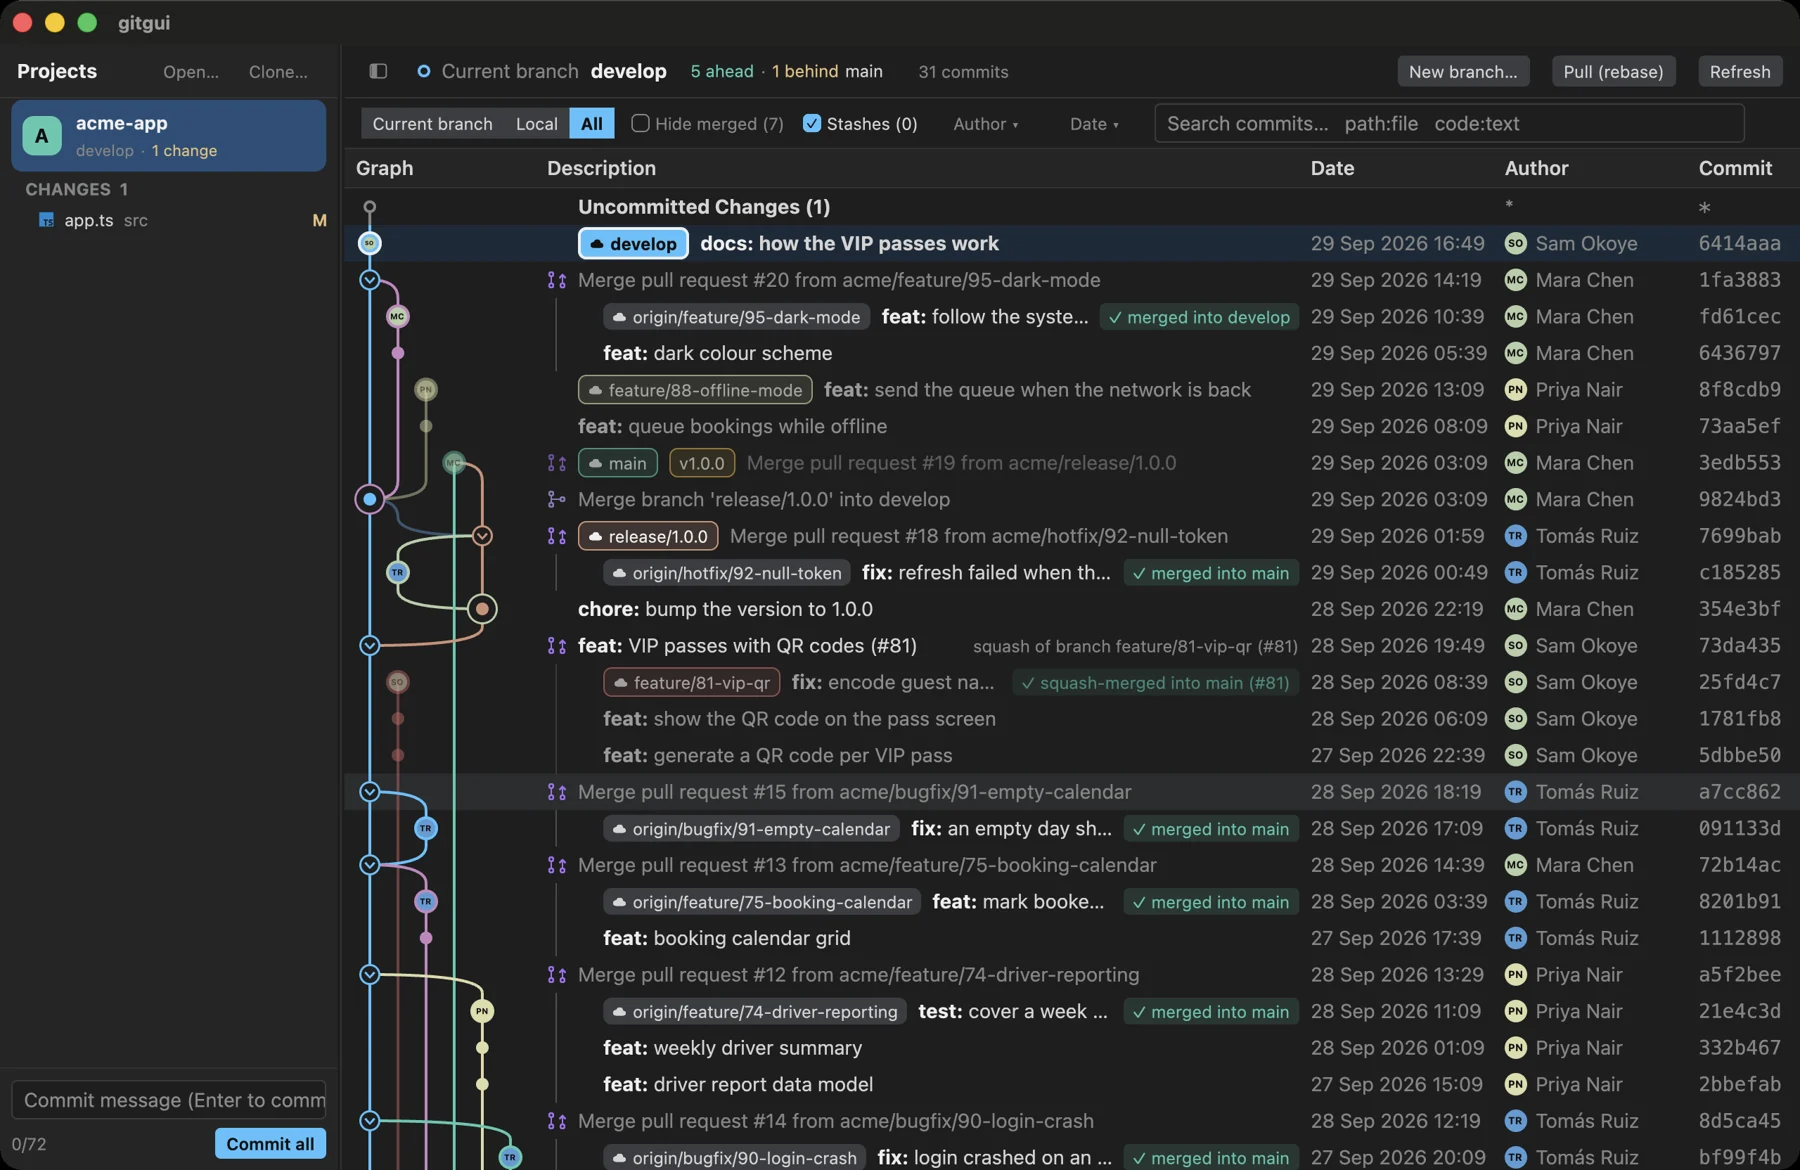
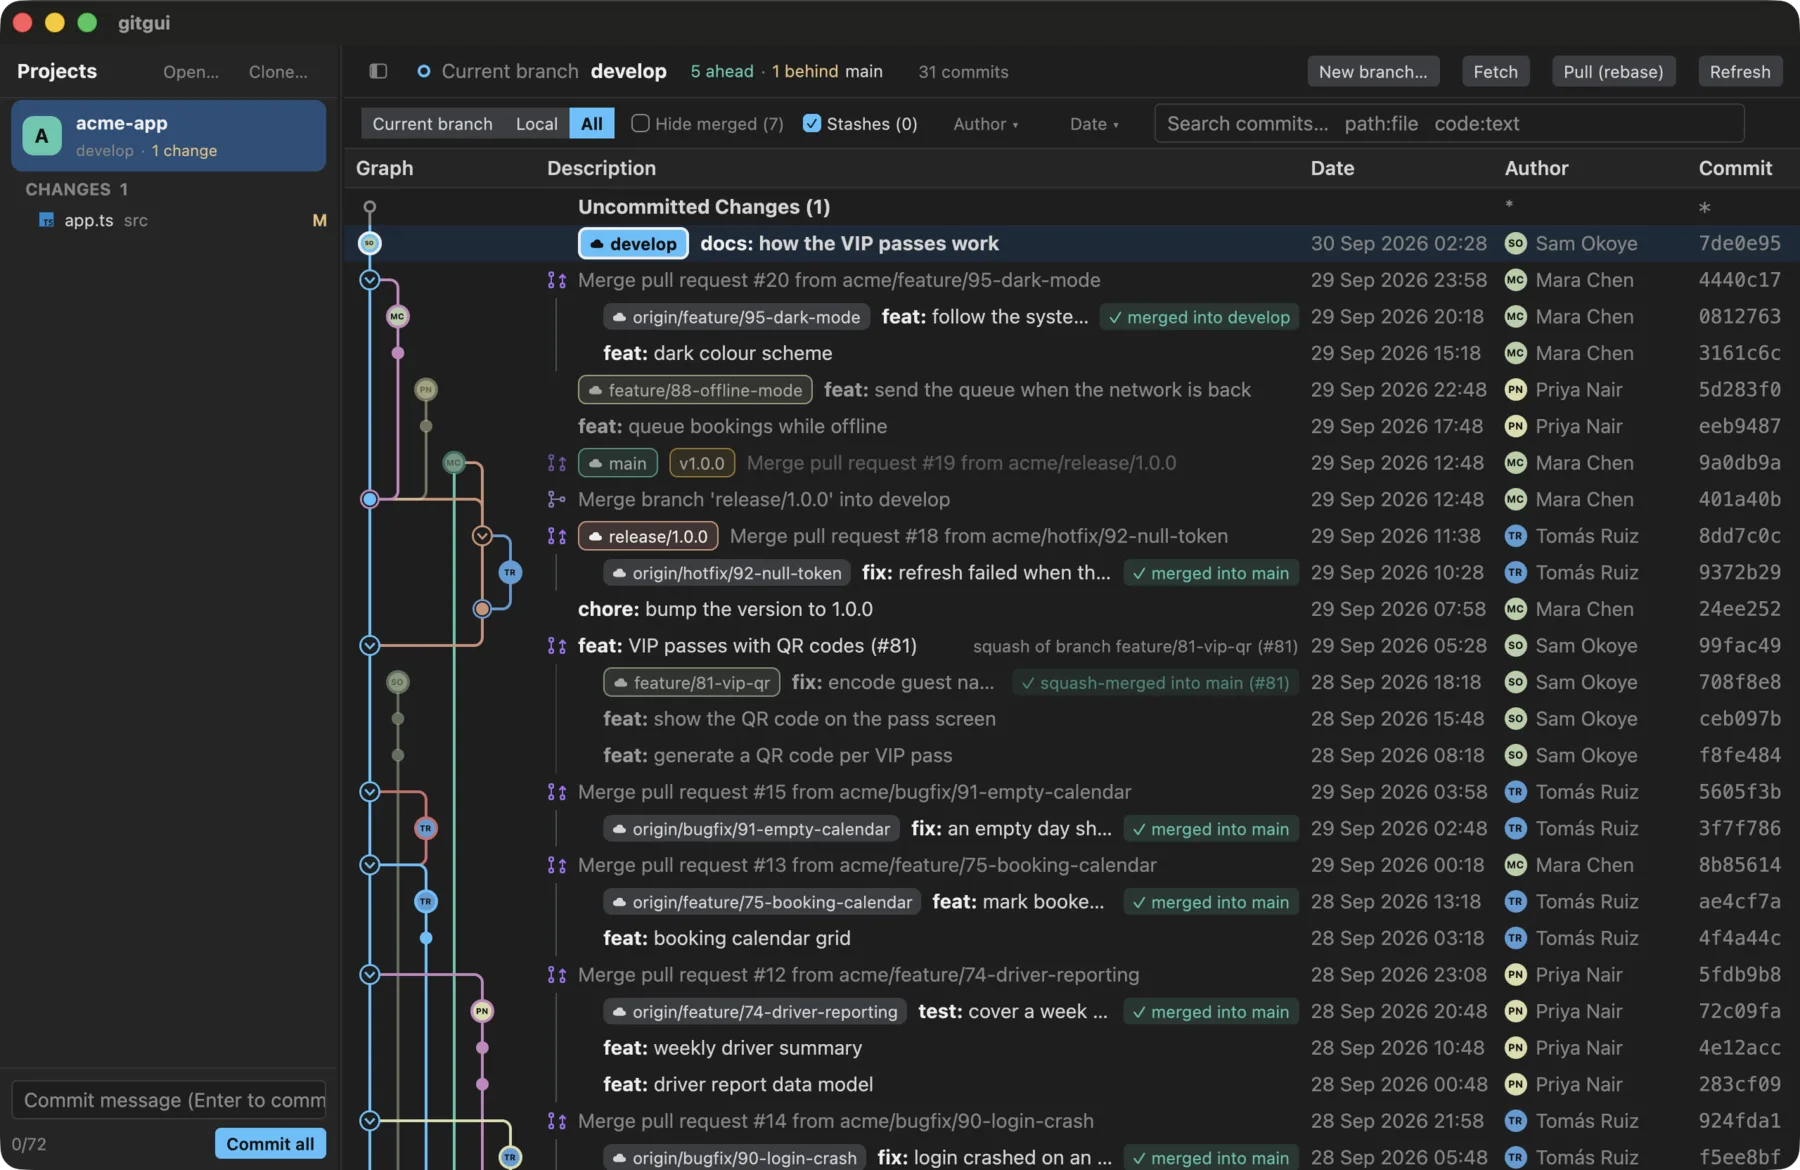
README pictures retaken on a Retina screen: the new graph wires, the new New branch window; GITGUI_DISPLAY picks the screen the dev window opens on

diff --git a/crates/app/src/main.rs b/crates/app/src/main.rs
@@ -81,11 +81,15 @@ fn main() {
             KeyBinding::new("secondary-q", Quit, None),
         ]);
 
-        let bounds = Bounds::centered(None, size(px(1280.), px(800.)), cx);
+        // A development aid, like the script below: open on the nth screen. A picture of the window is as sharp as its
+        // screen, so the README's are taken on a Retina one.
+        let display = std::env::var("GITGUI_DISPLAY").ok().and_then(|n| n.parse::<usize>().ok()).and_then(|n| cx.displays().get(n).map(|d| d.id()));
+        let bounds = Bounds::centered(display, size(px(1280.), px(800.)), cx);
         let window = cx
             .open_window(
                 WindowOptions {
                     window_bounds: Some(WindowBounds::Windowed(bounds)),
+                    display_id: display,
                     // The system title bar: close, minimize and zoom buttons, drag to move, and a
                     // menu bar that comes down when the pointer reaches the top in full screen.
                     titlebar: Some(TitlebarOptions { title: Some("gitgui".into()), ..Default::default() }),

diff --git a/README.md b/README.md
@@ -38,7 +38,7 @@
 
 <img src="docs/img/wizard.webp" alt="The New branch window, building feature/101-driver-reporting-v2 from develop" width="900">
 
-*Start a branch the way your team does: type, ticket, title. The name and the base branch follow the repo.*
+*Start a branch the way your team does: click a type for its prefix (or skip it), add a ticket and a title. Start from opens a searchable list of local and remote branches.*
 
 <br>
 
